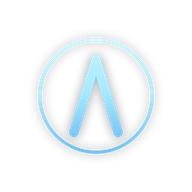
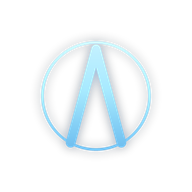
v245.4: badge-proportion brand, splash halo, sidebar spacing

Changed region(s): [[0.1875, 0.1875, 0.8125, 0.8125]]

diff --git a/index.html b/index.html
@@ -4,11 +4,11 @@
   <meta charset="UTF-8"/>
   <meta name="viewport" content="width=device-width, initial-scale=1.0, viewport-fit=cover"/>
   <title>ALFRED AI</title>
-  <link rel="stylesheet" href="css/style.css?v=2453bbbcb"/>
-  <link rel="icon" type="image/png" href="/assets/brand-192.png?v=1">
+  <link rel="stylesheet" href="css/style.css?v=2454bbbcb"/>
+  <link rel="icon" type="image/png" href="/assets/brand-192.png?v=2">
   <link rel="manifest" href="/manifest.json">
   <meta name="theme-color" content="#0a1220">
-  <link rel="apple-touch-icon" href="/assets/brand-192.png?v=1">
+  <link rel="apple-touch-icon" href="/assets/brand-192.png?v=2">
 </head>
 <body>
 
@@ -16,7 +16,7 @@
 <section id="loading" class="screen show">
   <div class="bg"></div><div class="spotlight"></div>
   <div class="content">
-    <div class="logo-wrap"><div class="halo"></div><img class="logo" src="assets/brand-192.png?v=1bbbcb" alt="Alfred AI"/></div>
+    <div class="logo-wrap"><div class="halo"></div><img class="logo" src="assets/brand-192.png?v=2bbbcb" alt="Alfred AI"/></div>
     <h1 class="title">ALFRED&nbsp;AI</h1>
     <p class="tagline">Your Mind, Amplified.</p>
   </div>
@@ -35,7 +35,7 @@
   <div class="bg"></div><div class="spotlight"></div>
   <div class="card-zone"><div class="card">
     <div class="brand">
-      <span class="badge"><img src="assets/brand-192.png?v=1bbbcb" alt=""/></span>
+      <span class="badge"><img src="assets/brand-192.png?v=2bbbcb" alt=""/></span>
       <span class="brand-txt"><b>ALFRED AI</b><i>Your Mind, Amplified.</i></span>
     </div>
     <div class="head"><h2><span class="glowdot"></span>Welcome Back</h2><p>Sign in to continue your journey</p></div>
@@ -60,7 +60,7 @@
   <div class="bg"></div><div class="spotlight"></div>
   <div class="card-zone"><div class="card">
     <div class="brand">
-      <span class="badge"><img src="assets/brand-192.png?v=1bbbcb" alt=""/></span>
+      <span class="badge"><img src="assets/brand-192.png?v=2bbbcb" alt=""/></span>
       <span class="brand-txt"><b>ALFRED AI</b><i>Your Mind, Amplified.</i></span>
     </div>
     <div class="head"><h2><span class="glowdot"></span>Create Your Account</h2><p>Join the future of AI</p></div>
@@ -87,7 +87,7 @@
 
   <aside class="sidebar" id="sidebar">
     <div class="side-head">
-      <span class="badge"><img src="assets/brand-192.png?v=1bbbcb" alt=""/></span>
+      <span class="badge"><img src="assets/brand-192.png?v=2bbbcb" alt=""/></span>
       <span class="brand-txt"><b>ALFRED AI</b><i>Your Mind, Amplified.</i></span>
     </div>
     <div class="search">
@@ -95,7 +95,7 @@
       <input type="text" placeholder="Search conversations..."/>
     </div>
     <button class="newchat" id="new-chat">
-      <span class="nc-ic"><img src="assets/logo-dark.svg?v=2453bbbcb" alt=""/></span>
+      <span class="nc-ic"><img src="assets/logo-dark.svg?v=2454bbbcb" alt=""/></span>
       <span class="nc-tx"><b>New Chat</b><i>Start a new conversation</i></span>
     </button>
     <nav class="nav" id="nav">
@@ -119,7 +119,7 @@
         <svg viewBox="0 0 24 24" fill="none" stroke="currentColor" stroke-width="2" stroke-linecap="round"><path d="M4 7h16M4 12h16M4 17h16"/></svg>
       </button>
       <div class="model">
-        <span class="m-av"><img src="assets/logo-dark.svg?v=2453bbbcb" alt=""/></span>
+        <span class="m-av"><img src="assets/logo-dark.svg?v=2454bbbcb" alt=""/></span>
         <span class="m-tx"><b>General AI</b><i class="online">&#9679; Online</i></span>
       </div>
       <div class="actions">
@@ -134,7 +134,7 @@
       <section class="view show" id="view-chat">
         <div class="chat-scroll" id="chat-scroll">
           <div class="msg ai">
-            <span class="msg-av"><img src="assets/brand-192.png?v=1bbbcb" alt=""/></span>
+            <span class="msg-av"><img src="assets/brand-192.png?v=2bbbcb" alt=""/></span>
             <div class="bubble">
               <p id="welcome-msg"></p>
               <time id="welcome-time"></time>
@@ -142,7 +142,7 @@
           </div>
 
           <div class="hero" id="hero">
-            <span class="hero-logo"><img src="assets/brand-192.png?v=1bbbcb" alt=""/></span>
+            <span class="hero-logo"><img src="assets/brand-192.png?v=2bbbcb" alt=""/></span>
             <div class="chips">
               <button class="chip" data-fill="Create an image of a neon city at night">&#127912; Create an image</button>
               <button class="chip" data-fill="Solve this problem: ">&#10133; Solve a problem</button>
@@ -225,7 +225,7 @@
     </button>
     <aside class="hist-card">
       <div class="hc-head">
-        <span class="hc-av"><img src="assets/brand-192.png?v=1bbbcb" alt=""/></span>
+        <span class="hc-av"><img src="assets/brand-192.png?v=2bbbcb" alt=""/></span>
         <div><b id="hc-title">General Chat</b><i id="hc-time">Today, 10:28 PM</i></div>
       </div>
       <p class="hc-prev" id="hc-prev">Hello, can you help me with a...</p>
@@ -241,7 +241,7 @@
 </section>
 
 
-<script src="js/app.js?v=2453"></script>
+<script src="js/app.js?v=2454"></script>
 <script>if ("serviceWorker" in navigator) { addEventListener("load", function () { navigator.serviceWorker.register("/sw.js").catch(function(){}); }); }</script>
 </body>
 </html>

diff --git a/js/app.js b/js/app.js
@@ -1042,7 +1042,7 @@ window.__v152 = "1"; /* v154 retires v152 */
   function addMsg(kind, text) {
     var av = kind === "user"
       ? '<span class="msg-av u-av">' + initial(userName()) + "</span>"
-      : '<span class="msg-av"><img src="assets/brand-192.png?v=1" alt=""/></span>';
+      : '<span class="msg-av"><img src="assets/brand-192.png?v=2" alt=""/></span>';
     var m = document.createElement("div");
     m.className = "msg " + kind;
     if (kind === "user") {
@@ -1367,7 +1367,7 @@ window.__v152 = "1"; /* v154 retires v152 */
       var name = (localStorage.getItem("alfred_name") || "Fred").charAt(0).toUpperCase();
       var av = mm.k === "user"
         ? '<span class="msg-av u-av">' + name + "</span>"
-        : '<span class="msg-av"><img src="assets/brand-192.png?v=1" alt=""/></span>';
+        : '<span class="msg-av"><img src="assets/brand-192.png?v=2" alt=""/></span>';
       var el = document.createElement("div");
       el.className = "msg " + (mm.k === "user" ? "user" : "ai") + " done";
       el.innerHTML = av + '<div class="bubble"><p></p><time>' + new Date().toLocaleTimeString([], { hour: "numeric", minute: "2-digit" }) + "</time></div>";
@@ -9576,6 +9576,7 @@ try { /* v163proc: native thinking card */
     }, 260);
   }
   setInterval(function () {
+    try { var _sc = scope(); _sc.style.paddingBottom = "150px"; _sc.style.scrollbarWidth = "none"; } catch (e) {}
     if (document.getElementById("v2451-admin-row")) return;
     var src = srcRow(); if (!src) return;
     var row = src.cloneNode(true);

diff --git a/css/style.css b/css/style.css
@@ -3567,3 +3567,9 @@ button, .adm-btn, .set-row, .faq-q { max-width: 100%; overflow-wrap: anywhere; }
 #view-admin [style*="display:flex"] { flex-wrap: wrap; row-gap: 6px; }
 #adm-body { overflow-x: hidden; }
 #adm-body .adm-card { max-width: 100%; }
+/* v245.4: mark legibility on bright backdrops + sidebar polish */
+img[src*="brand-192"], img[src*="brand-512"] {
+  opacity: 1;
+  filter: drop-shadow(0 0 10px rgba(6,12,22,.9)) drop-shadow(0 0 28px rgba(6,12,22,.7));
+}
+aside::-webkit-scrollbar, nav::-webkit-scrollbar { width: 0; height: 0; }

diff --git a/sw.js b/sw.js
@@ -1,4 +1,4 @@
-const CACHE = "alfred-v6";
+const CACHE = "alfred-v7";
 const SHELL = ["/", "/index.html", "/manifest.json", "/css/style.css", "/js/app.js"];
 self.addEventListener("install", (e) => {
   e.waitUntil(caches.open(CACHE).then((c) => c.addAll(SHELL)).then(() => self.skipWaiting()));
